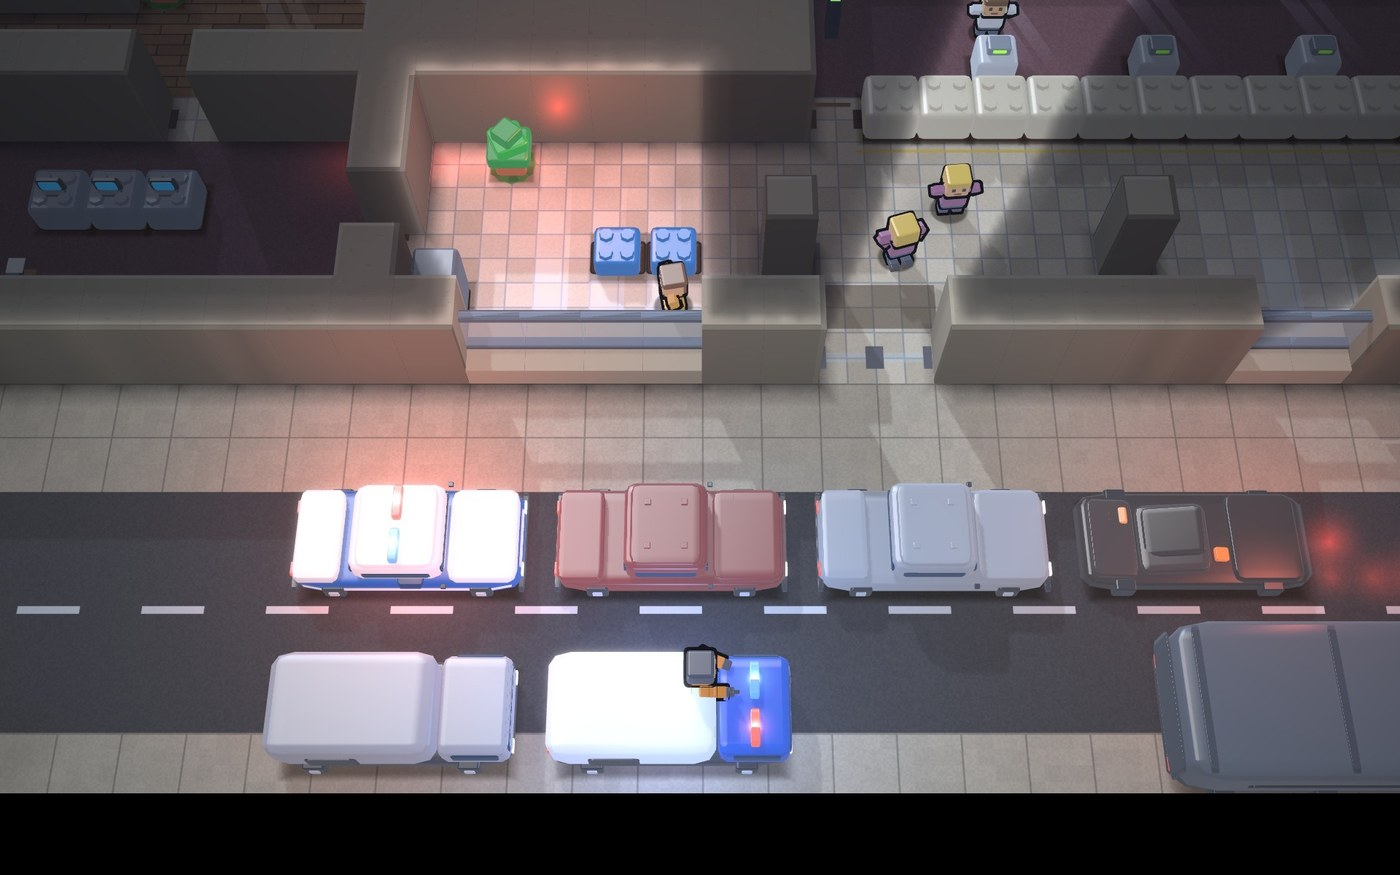
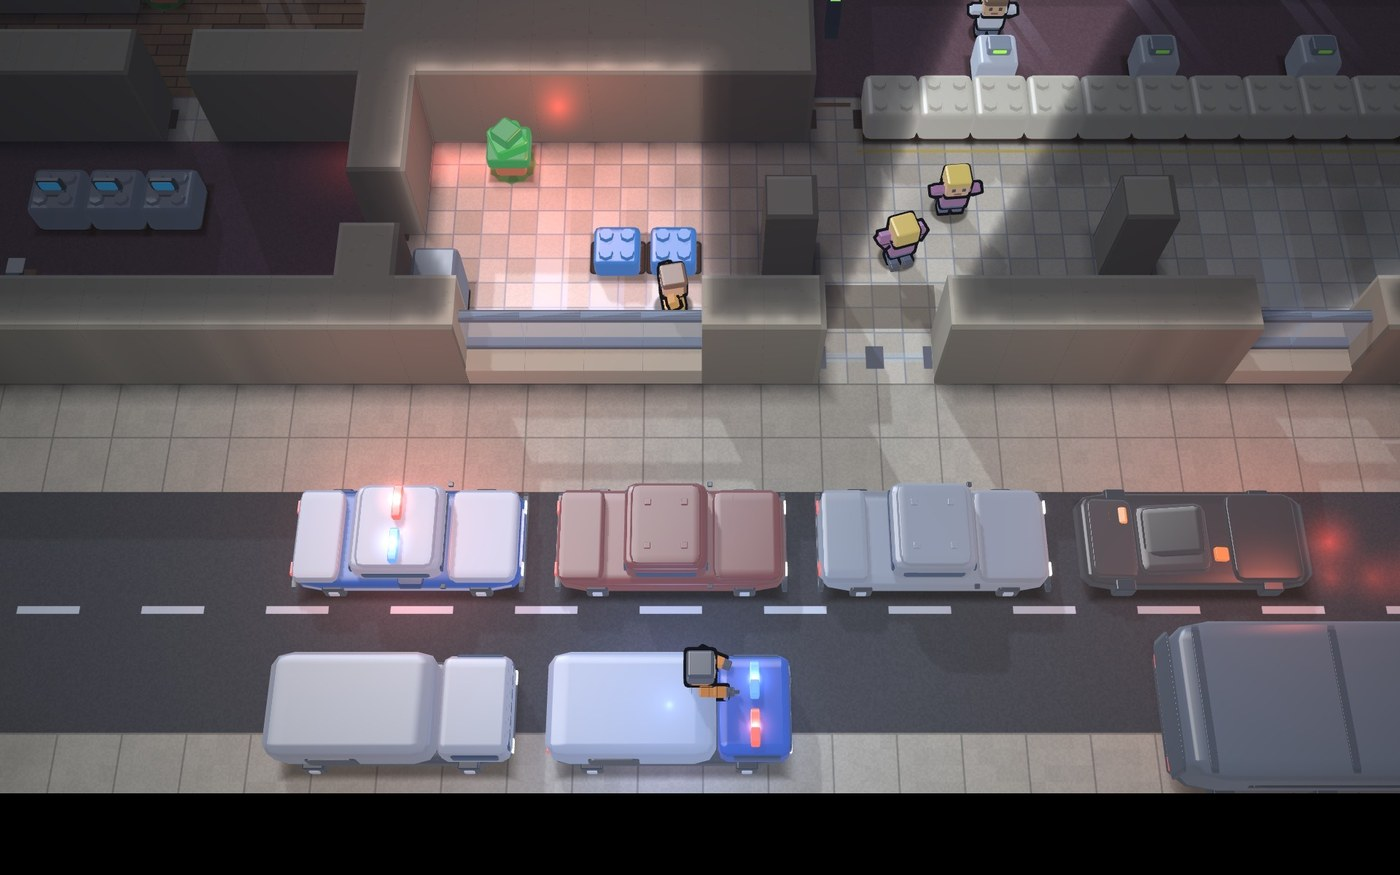
Klötzchen: Lack grauer, Blaulicht dämpft sich auf dem eigenen Wagen, Autoexplosion mit kleineren Teilen, niedriger und kürzerem Blitz (#198)
Claude-Session: https://claude.ai/code/session_01M9qApXZL2az9absRxv6RKY

diff --git a/js/kl-effekte.js b/js/kl-effekte.js
@@ -10,6 +10,15 @@ export function register(KL) {
     const parts = k.collect(() => { k.state(0, 1); k.rotY(x, y, 0, 1); for (let i = 0; i < n; i++) { const a = k.rr(0, 6.283), d = k.rr(2, 9), w = s * k.rr(.7, 1.4); k.part(k.root, Math.cos(a) * d, k.rr(6, 14), Math.sin(a) * d, w, w * k.rr(.5, 1), w * k.rr(.8, 1.3), k.colOf(cols[i % cols.length]), 0, k.rr(-.6, .6), k.rr(-.6, .6)) } });
     k.spawnDeb(parts, x, y, Object.assign({ k: 1 }, o));
   };
+  // Platten laengs der laengsten Achse teilen, bis keine laenger ist als maxL (Weltpixel, vor dem Skalieren): grosse Dachplatten fliegen sonst als riesige Flaechen durchs Bild
+  const cut = (k, parts, maxL) => {
+    const T = k.THREE, out = [];
+    for (const p of parts) {
+      const ax = p.s.indexOf(Math.max(...p.s)), n = Math.min(6, Math.ceil(p.s[ax] / maxL)); if (n <= 1) { out.push(p); continue }
+      for (let i = 0; i < n; i++) { const t = [0, 0, 0]; t[ax] = (i - (n - 1) / 2) * p.s[ax] / n; const s2 = p.s.slice(); s2[ax] = p.s[ax] / n * .96; out.push({ m: p.m.clone().multiply(new T.Matrix4().makeTranslation(t[0], t[1], t[2])), c: p.c, e: p.e, s: s2 }) }
+    }
+    return out;
+  };
   const PLASTIC = [0xd9dde2, 0xff8a3a, 0x3b3f46, 0xffd23a], GASC = [0x8fb53a, 0xc7d946, 0x5e6b2c], SMK = [0xb9bfc7, 0x8a919b, 0x5b616b];
   KL.fx('fig-tot', (k, { o, e, art }) => {
     const o2 = Object.assign({}, o, { col: 6, lie: 0, hit: 0, al: 1, ar: 0 }), e2 = Object.assign({}, e, { lie: 0 }), b = KL.figs[art];
@@ -19,11 +28,11 @@ export function register(KL) {
   KL.fx('car-wreck', (k, { o, e, look }) => {
     const kk = look.k && look.k !== 'wreck' && KL.cars[look.k] ? look.k : 'civ', b = KL.cars[kk]; if (!b) return;
     lastWreck = { x: o.x, y: o.y, t: k.time };
-    const parts = k.collect(() => b(k, Object.assign({}, o, { k: kk, bl: 0 }), e, look)), big = parts.filter(p => Math.max(...p.s) >= 12), small = parts.filter(p => Math.max(...p.s) < 12);
+    const Lc = o.L * k.C.carK[0], parts = cut(k, k.collect(() => b(k, Object.assign({}, o, { k: kk, bl: 0 }), e, look)), Lc * .22), big = parts.filter(p => Math.max(...p.s) >= 12), small = parts.filter(p => Math.max(...p.s) < 12);
     // wenige grosse Teile flach zur Seite (niedrig, hoechstens Wandhoehe), viele kleine hoch und weit; die grossen werden halbiert, damit sie kein Dach durchschlagen
-    k.spawnDeb(big, o.x, o.y, { k: 1.25, up: .3, em: .5, scale: .8 }); k.spawnDeb(small, o.x, o.y, { k: 1.6, up: .85, em: .55, split: 1, scale: .85 });
-    bricks(k, o.x, o.y, 12, PLASTIC, 5, { k: 1.4, up: .8, em: .4 });
-    k.sparkAt(o.x, o.y, 16, 44, 200, 1); k.sparkAt(o.x, o.y, 30, 14, 120, 0); k.smokeAt(o.x, o.y, 12, 9, 1.8); k.flash(o.x, o.y, .9);
+    k.spawnDeb(big, o.x, o.y, { k: 1.25, up: .25, em: .5, scale: .85 }); k.spawnDeb(small, o.x, o.y, { k: 1.6, up: .6, em: .55, scale: .85 });
+    bricks(k, o.x, o.y, 12, PLASTIC, 5, { k: 1.4, up: .55, em: .4 });
+    k.sparkAt(o.x, o.y, 16, 44, 200, 1); k.sparkAt(o.x, o.y, 30, 14, 120, 0); k.smokeAt(o.x, o.y, 12, 9, 1.8); k.flash(o.x, o.y, .7);
   });
   KL.fx('casing', (k, { o }) => {
     const kk = Math.round(o.x / 40) + ':' + Math.round(o.y / 40), lt = shot.get(kk) || -9; if (k.time - lt <= .09) return; shot.set(kk, k.time); if (shot.size > 64) shot.clear();
@@ -50,6 +59,8 @@ export function register(KL) {
       }
     }
     tPrev = k.time;
+    for (let i = k.flashes.length - 1; i >= 0; i--) if (k.flashes[i].t > .11) k.flashes.splice(i, 1);
+    for (const l of k.light) if ((l.k === 'red' || l.k === 'blue') && l.car) l.i = .5;
     for (const [o, e] of k.cars) if (e.bar && o.bl) {
       const a = o.bl === 1, c1 = hc(a ? KC.car.bar[0] : KC.car.bar[1]), c2 = hc(a ? KC.car.bar[1] : KC.car.bar[0]), h = KL.carHead(o), ca = Math.cos(h), sa = Math.sin(h), Lc = o.L * k.C.carK[0],
         bh = (o.k === 'pol' ? 36 : 11 + (e.h - 11) * .76 + 3.4) + 2, bx = o.k === 'pol' ? -Lc * .03 : Lc / 2 - Lc * .15, wz = o.W * k.C.carK[1] * .22;

diff --git a/js/kl-fahrzeuge.js b/js/kl-fahrzeuge.js
@@ -7,7 +7,7 @@ export function register(KL) {
   const car = (k, o, e, look) => {
     const { part, colOf, KC, C } = k, Lc = o.L * C.carK[0], Wc = o.W * C.carK[1], H = e.h, kind = o.k, KCar = KC.car, tt = k.time || 0;
     k.rotY(o.x, o.y, KL.carHead(o), 1); const R = k.root; k.state(0, 1);
-    const wheel = colOf(KCar.wheel), glass = colOf(KCar.glass), rim = colOf(0xb9bfc7), dark = colOf(0x30343b), body = look.body, roof = look.roof, wr = 5.6, wz = Wc / 2 - 1.6;
+    const wheel = colOf(KCar.wheel), glass = colOf(KCar.glass), rim = colOf(0xb9bfc7), dark = colOf(0x30343b), body = look.body.clone().multiplyScalar(.85), roof = look.pol ? colOf(0xa0a6b0) : look.roof.clone().multiplyScalar(.7), wr = 5.6, wz = Wc / 2 - 1.6;
     const lamps = (x0, x1, y) => { for (const s of [1, -1]) { part(R, x0, y, s * Wc * .32, 1.2, 3, 7, colOf(KCar.lamp), .8); part(R, x1, y, s * Wc * .32, 1.2, 3, 7, colOf(KCar.tail), .6) } };
     const bar = (x, y, on) => { const a = o.bl === 1; for (const s of [-1, 1]) part(R, x, y, s * Wc * .22, 4.6, 3.8, Wc * .34, colOf((s < 0) === a ? KCar.bar[0] : KCar.bar[1]), on ? 1.2 : .06) };
     const studs = (x, y, sx, sz, kk) => { for (const a of [-1, 1]) for (const b of [-1, 1]) part(R, x + a * sx, y, b * sz, kk, 1.3, kk, roof) };
